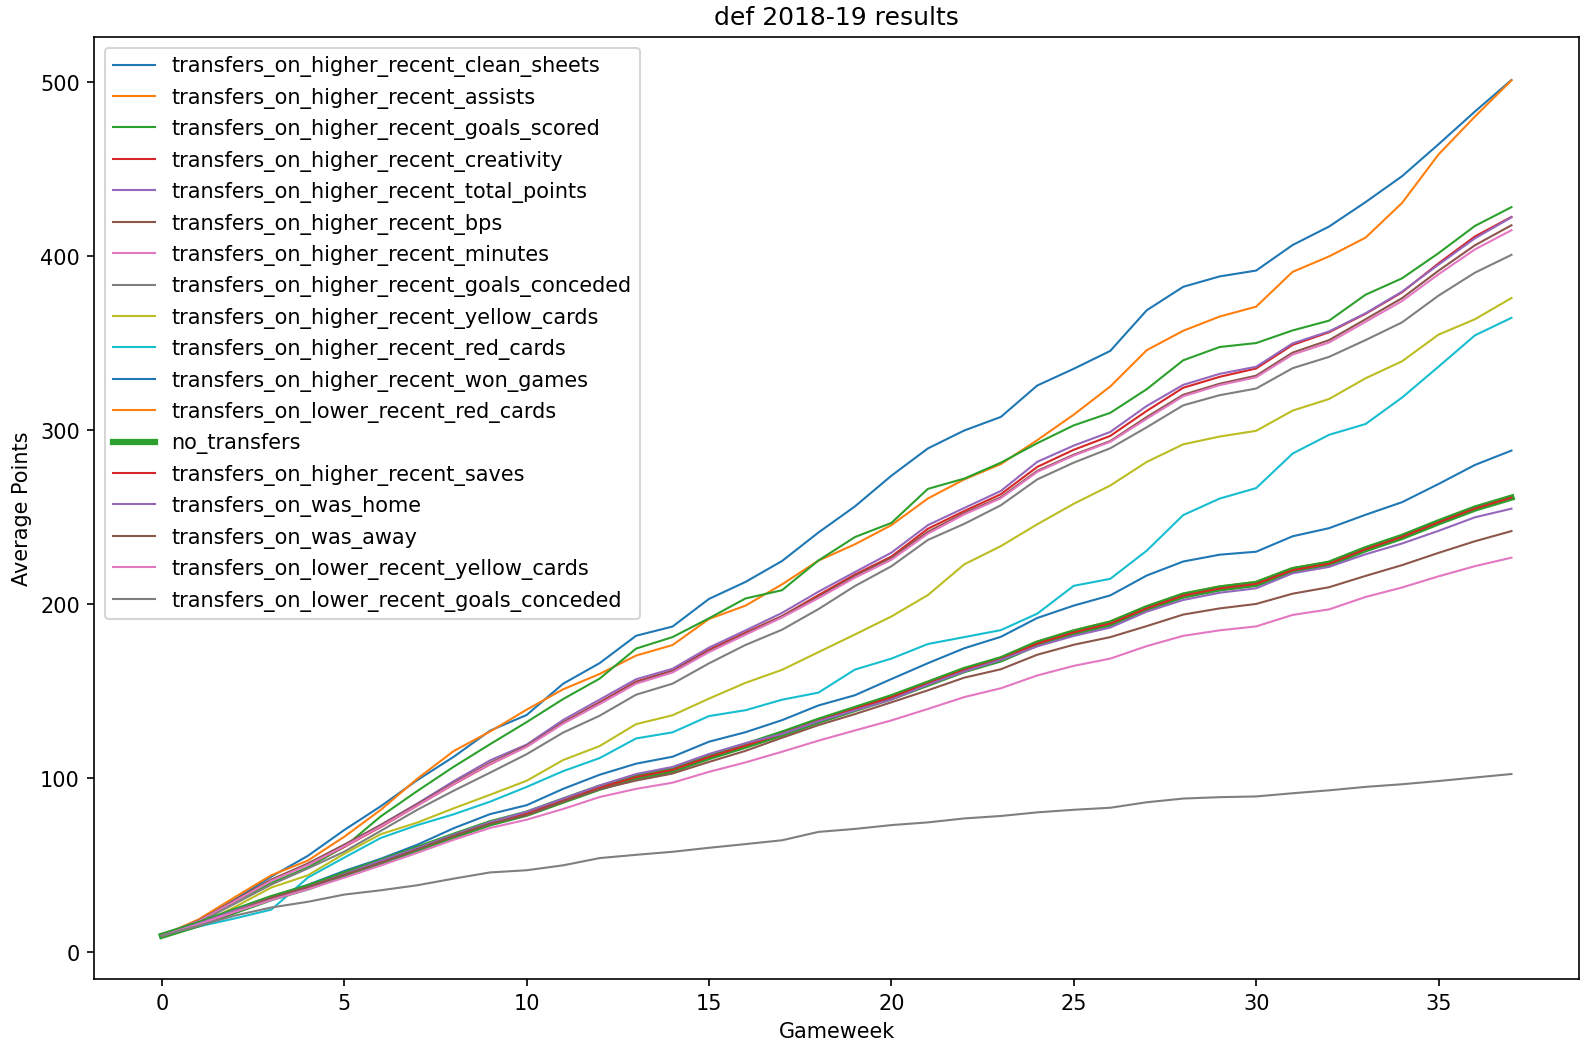
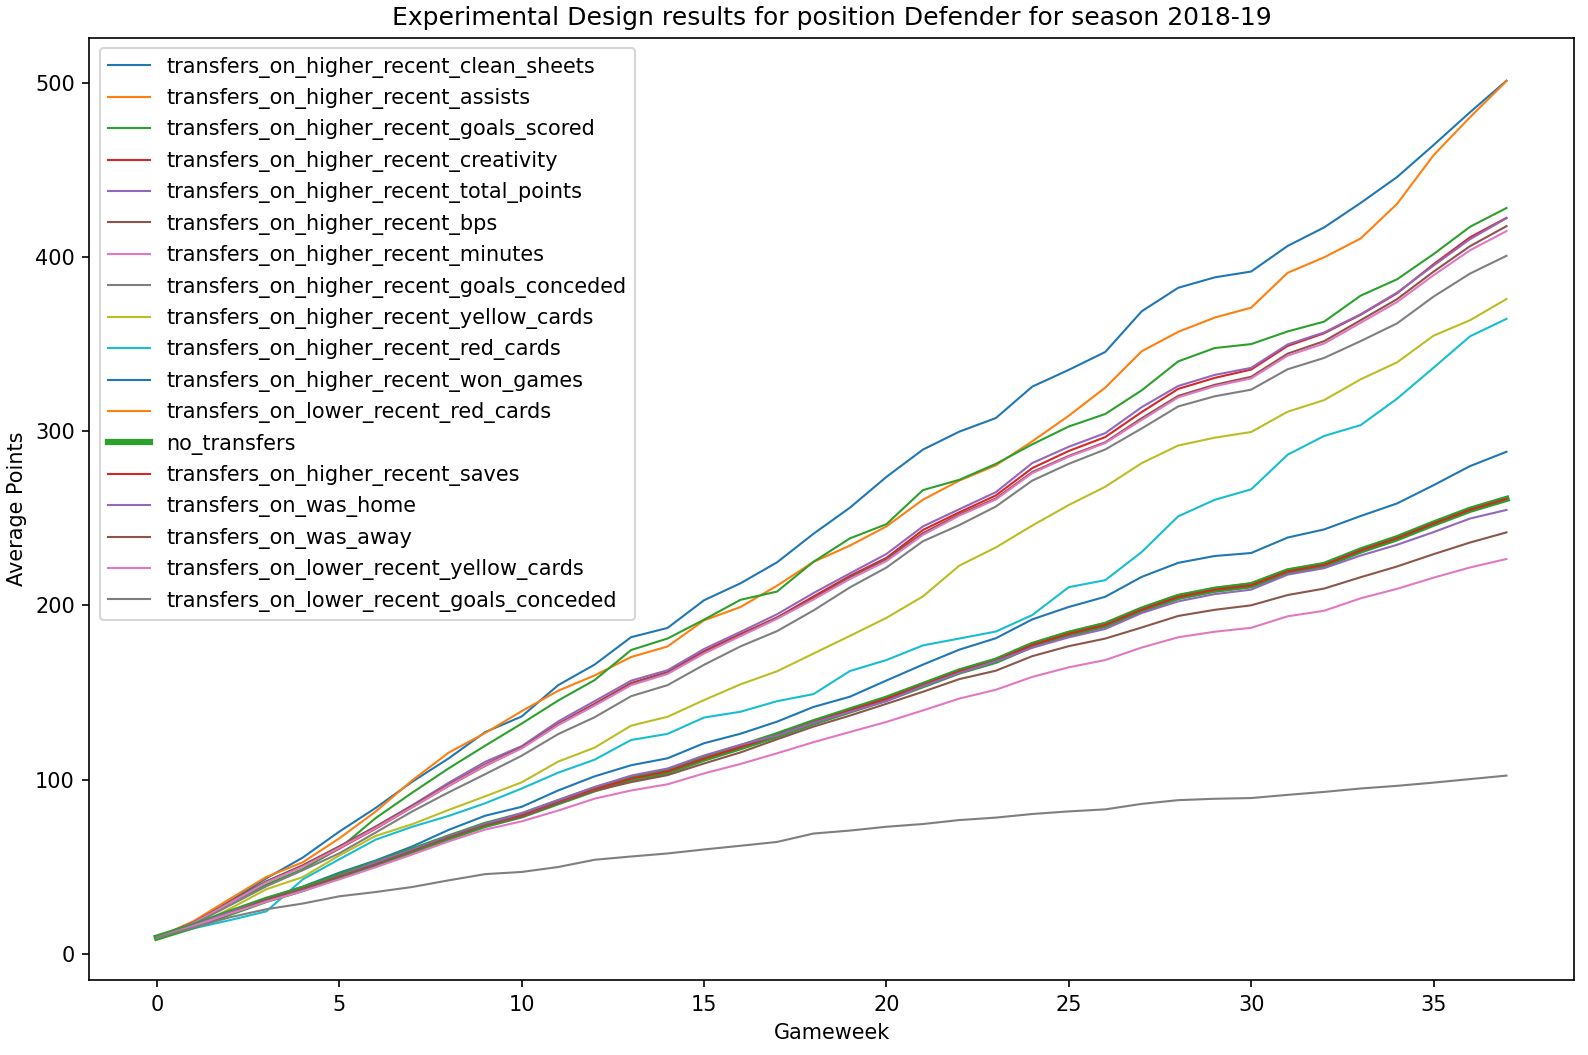
Obtained better labelled graphs

diff --git a/src/visualisation/variable_display.py b/src/visualisation/variable_display.py
@@ -7,6 +7,20 @@ pickle_in = open("results_dict.pickle", "rb")
 results_dict = pickle.load(pickle_in)
 
 
+def convert_pos_to_word(position):
+    position = position.upper()
+    if position == "GK":
+        return "Goalkeeper"
+    elif position == "DEF":
+        return "Defender"
+    elif position == "MID":
+        return "Midfielder"
+    elif position == "FWD":
+        return "Forward"
+    else:
+        raise ValueError("Invalid position")
+
+
 def display_results(results, which_result):
     ordered_params = [t[1] for t in results_dict[f"{which_result}_ranked_params"]]
     # plot results
@@ -20,12 +34,12 @@ def display_results(results, which_result):
     season = which_result.split("_")[1]
     plt.xlabel("Gameweek")
     plt.ylabel("Average Points")
-    plt.title(f"{position} {season} results")
+    plt.title(f"Experimental Design results for position {convert_pos_to_word(position)} for season {season}")
     plt.legend()
     plt.show()
 
 
-display_results(results_dict, "fwd_avg")
+display_results(results_dict, "fwd_2020-21")
 
 
 def get_ranked_params_position_as_latex_table(position, season):
